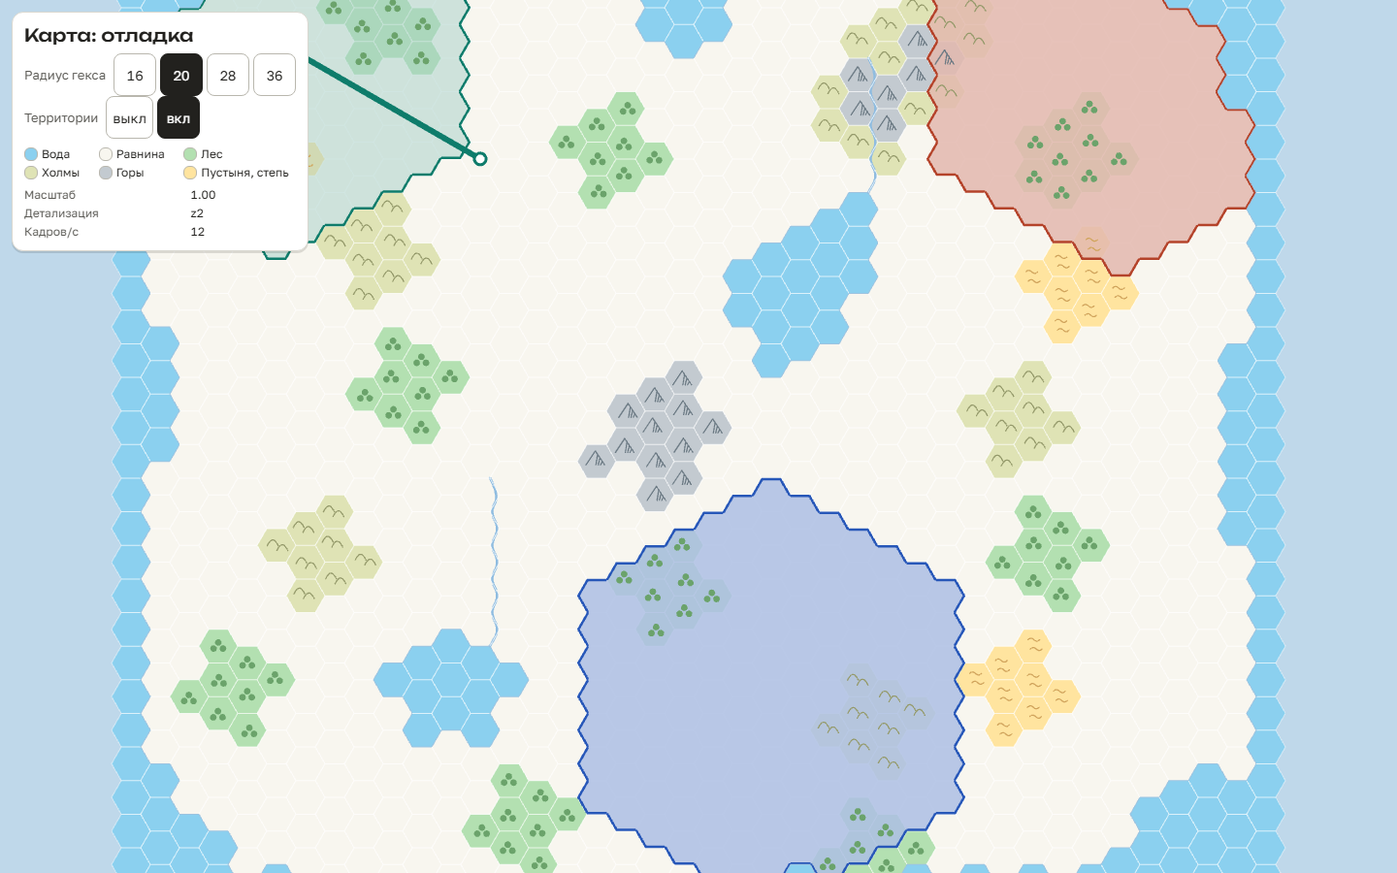
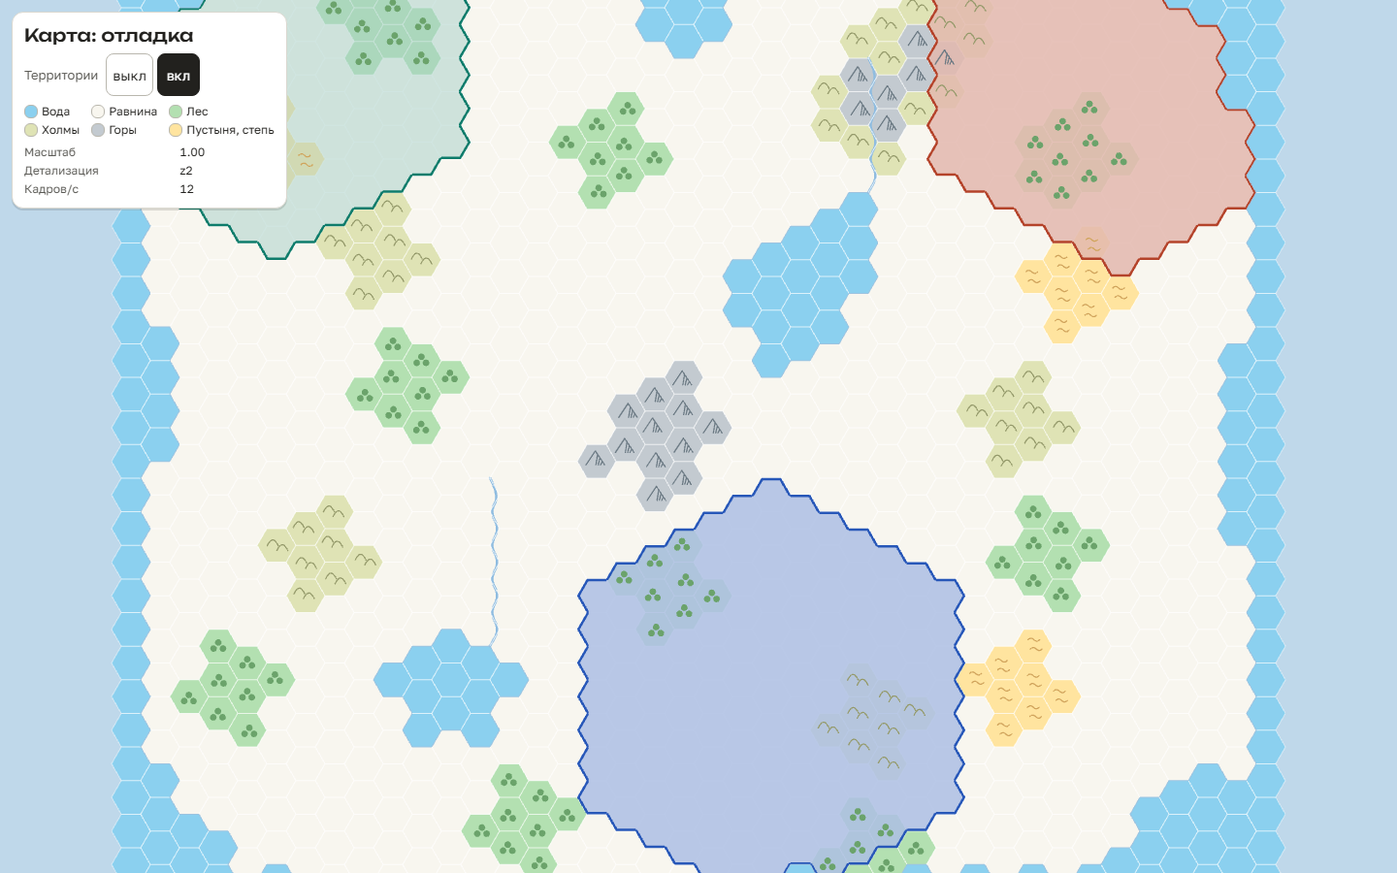
docs(docs): радиус 20 подтверждён, пожелание по дорогам записано
Переключатель радиуса и пример дороги-«метро» убраны с /dev/map,
эталоны скриншотов пересняты. Пожелание владельца «дороги пунктиром,
не поверх всего» и проверка синих цветов игроков — в
CHANGELOG-proposals.md с перечнем конфликтов. Отчёт и статус этапа.

Этап: 01/T9
Решение: DECISIONS 2026-09-24

diff --git a/apps/client/src/dev/fake-territories.ts b/apps/client/src/dev/fake-territories.ts
@@ -1,4 +1,4 @@
-// Только для /dev/map: фейковые государства и дорога-«метро», чтобы оценить палитру рельефа
+// Только для /dev/map: фейковые государства, чтобы оценить рельеф
 // под заливкой территорий. Настоящие слои 4–7 — этап 04; в игровой код модуль не идёт.
 import { Container, Graphics } from 'pixi.js';
 
@@ -7,8 +7,6 @@ import {
   hexFromId,
   hexId,
   inBounds,
-  distance,
-  line,
   neighbor,
   neighbors,
   type Hex,
@@ -16,7 +14,7 @@ import {
 } from '@hexfront/sim';
 
 import type { DetailLevel } from '../render/camera.ts';
-import { hexCenter, hexEdge, hexPolygon, type Point } from '../render/hex-geometry.ts';
+import { hexCenter, hexEdge, hexPolygon } from '../render/hex-geometry.ts';
 import { tokens } from '../theme/tokens.ts';
 
 const STATE_RADIUS = 6;
@@ -71,7 +69,7 @@ interface Owned {
   readonly p: number;
 }
 
-/** Строит слой из трёх государств и одной дороги по текущим токенам territory и road. */
+/** Строит слой из трёх государств по токенам territory. */
 export function createFakeTerritories(map: MapStatic, radius: number): FakeTerritories {
   const owner = claim(map);
   const cells: Owned[] = [];
@@ -86,17 +84,8 @@ export function createFakeTerritories(map: MapStatic, radius: number): FakeTerri
 
   const fill = new Graphics();
   const borders = new Graphics();
-  const road = new Graphics();
-  const stations = new Graphics();
   const container = new Container();
-  container.addChild(fill, borders, road, stations);
-
-  // Дорога-«метро» от столицы своего государства к ближайшему городу карты.
-  const capital = map.spawns[SPAWN_SLOTS[OWN]];
-  const city = capital
-    ? [...map.cities].sort((a, b) => distance(capital, a) - distance(capital, b))[0]
-    : undefined;
-  const roadPath = capital && city ? line(capital, city).map((h) => hexCenter(h, radius)) : [];
+  container.addChild(fill, borders);
 
   return {
     container,
@@ -125,35 +114,9 @@ export function createFakeTerritories(map: MapStatic, radius: number): FakeTerri
         }
         borders.stroke({ color: lineOf(p), width: bw, cap: 'round' });
       }
-      road.clear();
-      const [first, ...rest] = roadPath;
-      if (first) {
-        road.moveTo(first.x, first.y);
-        for (const pt of rest) road.lineTo(pt.x, pt.y);
-        const rw = tokens.road.width[level - 1] ?? tokens.road.width[1];
-        road.stroke({ color: lineOf(OWN), width: rw / scale, cap: 'round', join: 'round' });
-      }
-      drawStations(stations, [roadPath[0], roadPath.at(-1)], lineOf(OWN), scale);
     },
     destroy() {
       container.destroy({ children: true });
     },
   };
-}
-
-// Концы дороги — «станции» по токенам city (уровень 1), экранного размера.
-function drawStations(
-  g: Graphics,
-  points: readonly (Point | undefined)[],
-  color: string,
-  scale: number,
-): void {
-  const { city } = tokens;
-  g.clear();
-  for (const p of points) {
-    if (!p) continue;
-    g.circle(p.x, p.y, city.radiusByLevel[0] / scale)
-      .fill(city.fill)
-      .stroke({ color, width: city.strokeByLevel[0] / scale });
-  }
 }

diff --git a/apps/client/src/dev/DevMapPage.tsx b/apps/client/src/dev/DevMapPage.tsx
@@ -13,8 +13,6 @@ import {
 } from '../render/map-view.ts';
 import { tokens } from '../theme/tokens.ts';
 
-/** Радиусы для выбора на глаз (DECISIONS 2026-09-24). */
-const RADIUS_OPTIONS = [16, 20, 28, 36] as const;
 /** Период обновления показаний панели: чаще — лишние перерисовки React. */
 const READOUT_MS = 250;
 
@@ -29,20 +27,18 @@ const LEGEND: readonly { color: string; label: MessageKey }[] = [
 ];
 
 interface Settings {
-  readonly radius: number;
   readonly territories: boolean;
 }
 
 function readSettings(params: URLSearchParams): Settings {
   return {
-    radius: Number(params.get('radius')) || tokens.map.hexRadius,
     territories: params.get('territories') === '1',
   };
 }
 
 function toOptions(s: Settings): MapViewOptions {
   return {
-    radius: s.radius,
+    radius: tokens.map.hexRadius,
     midLayer: s.territories ? (map, radius) => createFakeTerritories(map, radius) : null,
   };
 }
@@ -94,7 +90,7 @@ function Choice<T extends string | number | boolean>(props: {
   );
 }
 
-/** /dev/map?map=small[&radius&scale&territories=1&panel=0]. */
+/** /dev/map?map=small[&scale&territories=1&panel=0]. */
 export function DevMapPage(): React.JSX.Element {
   const params = new URLSearchParams(window.location.search);
   const map = useMap(params.get('map') ?? 'small');
@@ -141,13 +137,6 @@ export function DevMapPage(): React.JSX.Element {
         <h1 className={styles.title}>{t('dev.map.title')}</h1>
         {map === 'loading' && <p>{t('dev.map.loading')}</p>}
         {map === 'error' && <p className={styles.error}>{t('dev.map.error')}</p>}
-        <Choice
-          label={t('dev.map.radius')}
-          options={RADIUS_OPTIONS}
-          value={settings.radius as (typeof RADIUS_OPTIONS)[number]}
-          format={String}
-          onPick={(radius) => update({ radius })}
-        />
         <Choice
           label={t('dev.map.territories')}
           options={[false, true]}

diff --git a/apps/client/scripts/dev-map-screens.ts b/apps/client/scripts/dev-map-screens.ts
@@ -14,7 +14,7 @@ interface Shot {
 }
 
 // Эталоны /dev/map (палитра и прозрачность — DECISIONS 2026-09-24): телефон и ПК,
-// z1/z2/z3, без территорий и с примером территорий; плюс радиусы для выбора на глаз.
+// z1/z2/z3, без территорий и с примером территорий.
 const VIEWS = [
   { tag: '390x844-fit', width: 390, height: 844, query: '' },
   { tag: '390x844-scale1', width: 390, height: 844, query: '&scale=1' },
@@ -33,12 +33,6 @@ const SHOTS: readonly Shot[] = [
     })),
   ),
   { name: 'dev-map-1440x900-panel', width: 1440, height: 900, query: '&territories=1&scale=1' },
-  ...[16, 28, 36].map((r) => ({
-    name: `dev-map-1440x900-radius${r}`,
-    width: 1440,
-    height: 900,
-    query: `&panel=0&territories=1&radius=${r}&scale=1`,
-  })),
 ];
 
 const browser = await chromium.launch();

diff --git a/apps/client/src/i18n/dict.ts b/apps/client/src/i18n/dict.ts
@@ -2,7 +2,6 @@
 
 const ru = {
   'dev.map.title': 'Карта: отладка',
-  'dev.map.radius': 'Радиус гекса',
   'dev.map.scale': 'Масштаб',
   'dev.map.detail': 'Детализация',
   'dev.map.fps': 'Кадров/с',
@@ -24,7 +23,6 @@ export type MessageKey = keyof typeof ru;
 
 const en: Record<MessageKey, string> = {
   'dev.map.title': 'Map: debug',
-  'dev.map.radius': 'Hex radius',
   'dev.map.scale': 'Scale',
   'dev.map.detail': 'Detail',
   'dev.map.fps': 'FPS',

diff --git a/docs/reports/stage-01.md b/docs/reports/stage-01.md
@@ -13,7 +13,7 @@
 | T5. Состояние и `step` | готово | `createMatch`, `hashState` (FNV-1a), `step` с 17 системами после `applyCommands`, команды → `notImplemented`. Golden-хэш старта `small` (сид 42, 6 игроков): `34a067fb`. 1000 тиков — одинаковый хэш в двух прогонах. DSL разбирает и прогоняет пример из `testing.md` |
 | T6. Токены | готово | `tools/tokens` → `apps/client/src/theme/tokens.{ts,css}`; `pnpm check` падает на устаревших файлах; контраст всех 24 цветов игроков к белому ≥ 4,5 |
 | T7. Рендер рельефа и камера | готово | `/dev/map?map=small`: вода и берег, рельеф с паттернами от координат (лес, пустыня — точки; холмы — 2 горизонтали; горы — 3–4 и штриховка), сглаженные реки по рёбрам, сетка с z2. Камера: перетаскивание с инерцией, колесо, щипок, границы карты. Шрифты локально |
-| T8. Плавный зум и переключатель радиуса | готово | Масштаб от «вся карта» до 2,5, пороги детализации 0,6/1,5 (юнит-тест), переключатель 16/20/28/36 без перезагрузки. Параметры URL `radius` и `scale` — для скриншотов |
+| T8. Плавный зум и переключатель радиуса | готово | Масштаб от «вся карта» до 2,5, пороги детализации 0,6/1,5 (юнит-тест), переключатель 16/20/28/36 без перезагрузки — по нему выбран радиус 20, после чего переключатель убран. Параметр URL `scale` — для скриншотов |
 | T9. Палитра местности и узоры | готово | Узоры: кроны, дуги, пик со штриховкой, рябь — над территорией. Палитра B, ΔE2000 ≥ 8 между типами суши (тест), суша светлее заливок территорий; прозрачность своё/чужие 50/85 %. Легенда и пример территорий на `/dev/map` |
 
 ## Решения владельца, принятые в этапе
@@ -22,12 +22,14 @@
 
 ## Отклонено или перенесено
 
+- Пример дороги-«метро» и «станции» на `/dev/map` убраны: владелец хочет дороги пунктиром и не поверх всего, города на карту пока не добавляем. Пожелание с конфликтами против стайл-гайда — в `CHANGELOG-proposals.md`, решается до этапа 04.
+
 - Эталонные скриншот-тесты Playwright в CI — с этапа 04 (`testing.md`). Сейчас скриншоты снимаются скриптом `apps/client/scripts/dev-map-screens.ts`.
 - Подписи городов и фишки армий на dev-странице не рисуются — вне объёма этапа (слои 4+ — этап 04).
 
 ## Скриншоты (просмотрены)
 
-Эталоны после DECISIONS 2026-09-24 (палитра B, прозрачность 50/85 %), `docs/reports/stage-01/`:
+Эталоны после DECISIONS 2026-09-24 (палитра B, прозрачность 50/85 %, радиус 20), `docs/reports/stage-01/`:
 
 | Файл | Масштаб | Детализация |
 | --- | --- | --- |
@@ -37,7 +39,6 @@
 | `dev-map-1440x900-fit[-territories].png` | 0,85 | z2 |
 | `dev-map-1440x900-scale2[-territories].png` | 2,00 | z3 |
 | `dev-map-1440x900-panel.png` | 1,00 | z2, с панелью и легендой |
-| `dev-map-1440x900-radius{16,28,36}.png` | 1,06 / 1,00 / 1,00 | z2 |
 
 Выбор палитры (T9) — `docs/reports/stage-01-terrain.md` и `docs/reports/stage-01/terrain/`. Значения fps на скриншотах — из headless Chromium без GPU, не показательны.
 
@@ -66,7 +67,7 @@ Test Files  14 passed (14)
 
 ## Открытые вопросы
 
-Нет (`QUESTIONS.md` пуст).
+`QUESTIONS.md` пуст. На решении владельца в `CHANGELOG-proposals.md`: стиль дорог (4 конфликта со стайл-гайдом) и проверка синих цветов игроков против воды.
 
 ## Известные риски
 

diff --git a/docs/CHANGELOG-proposals.md b/docs/CHANGELOG-proposals.md
@@ -2,3 +2,21 @@
 
 Формат: дата · файл(ы) · что изменить · почему · влияние на код и тесты. Владелец отмечает: принято / отклонено.
 
+
+## 2026-09-24 · Дороги пунктиром, не «метро» · пожелание владельца, ждёт решения по конфликтам
+
+- **Что:** дороги рисуются пунктирной линией, а не толстой линией «метро», и не поверх всего (ниже фишек, городов, фронта и узоров?). Города на карту пока не добавляем.
+- **Файлы:** `art/style-guide.md` (идея, принцип 3, слой 7, раздел «Линии снабжения», «Изолированная сеть», «Стройка»), `art/tokens.json` (`road.*`), `art/ui.md` (строки 33–34: «линия-метро» / «пунктирная линия» в карточке города), `art/units.md` (стрелка — «как поток снабжения»), `gdd/04-roads-supply.md` (строки 3, 20, 57, 63), `01-vision.md` (столп 1), `DECISIONS.md` 2026-09-23 «Визуальный стиль „метро-карта“», `stages/stage-04` T4.
+- **Конфликты, которые надо решить до правки:**
+  1. Пунктир уже занят: изолированная сеть (7/7), стройка дороги («муравьи»), путь «Перестроить снабжение», изолированный город, контур котла. Если все дороги пунктирные, чем показать разрез/изоляцию — цветом, прозрачностью, значком разрыва?
+  2. Поток снабжения (белый бегущий пунктир поверх линии) на пунктирной дороге не читается. Оставить поток, заменить (бегущие точки/стрелки) или убрать?
+  3. Столп «Логистика решает войну» и принцип «Снабжение — главный герой, самая толстая линия после армий»: дорога становится второстепенным элементом. Меняем приоритет или только форму линии?
+  4. Слой 7 — между территорией и городами. Куда именно опустить дороги: под узоры рельефа (4а), под границы (5)?
+- **Влияние на код:** этап 01 — нет (дорог в игровом коде нет; пример дороги удалён с `/dev/map`). Этап 04 T4 — реализация по новой спецификации.
+
+## 2026-09-24 · Синие цвета игроков похожи на воду · предложение агента
+
+- **Что:** проверить ΔE2000 заливок игроков (`mix(line, #FFF, fillMix)` при `alphaOther`/`alphaOwn` поверх равнины) против `map.water`; цвета ниже порога — сдвинуть по оттенку или исключить из соседства с водой.
+- **Почему:** на скриншотах `cobalt` (южное государство) читается как озеро; то же ожидается у `ocean`, `cyan`, `navy`, `steel`, `indigo`.
+- **Файлы:** `art/tokens.json` (`players.palette`), тест в `apps/client/test/terrain-palettes.test.ts`.
+- **Влияние:** только клиент; эталоны скриншотов.

diff --git a/docs/STATUS.md b/docs/STATUS.md
@@ -13,14 +13,14 @@
 
 - Репозиторий на GitHub (`detektor133/HexFront`), доступ и автор настроены локально для этого репо; PR #1 `stage-01` → `main`, CI зелёный.
 - T9: узоры рельефа (кроны, дуги, пик, рябь) над территорией; палитра местности B и прозрачность своё/чужие 50/85 % — в `tokens.json` и `style-guide.md` (DECISIONS 2026-09-24). Эталоны скриншотов обновлены.
+- Радиус гекса 20 подтверждён; пример дороги и переключатель радиуса убраны; пожелание по дорогам записано в `CHANGELOG-proposals.md`.
 - `pnpm check` зелёный: 104 теста.
 
 ## Дальше
 
-- Владелец: приёмка этапа 01 (PR #1), выбор радиуса гекса на `/dev/map`.
-- После мержа — тег `stage-01-done`, удалить локальные ветки `backup/*`.
-- Предложение: проверить ΔE заливок синих цветов игроков против воды (`cobalt`, `ocean`, `cyan`, `navy` похожи на воду).
-- Затем этап 02 (T1 уже закрыта в 01/T4).
+- Владелец: мерж PR #1 (приёмка этапа 01), затем тег `stage-01-done`, удалить локальные `backup/*`.
+- До этапа 04 решить `CHANGELOG-proposals.md`: стиль дорог (пунктир, не поверх всего — 4 конфликта со стайл-гайдом) и синие цвета игроков против воды.
+- Этап 02 (T1 уже закрыта в 01/T4).
 
 ## Блокеры и открытые вопросы
 

diff --git a/docs/DECISIONS.md b/docs/DECISIONS.md
@@ -2,6 +2,7 @@
 
 Одна строка на решение, новые сверху. Формат: дата · решение · затронутые файлы · CR (если был).
 
+- 2026-09-24 · Радиус гекса `map.hexRadius` = 20 px подтверждён; переключатель радиуса и пример дороги убраны с `/dev/map`; дороги — пожелание «пунктир, не поверх всего» в `CHANGELOG-proposals.md`, города на карту пока не добавляем · `stages/stage-01`
 - 2026-09-24 · Палитра местности B (вода `#8BD0EF`, суша светлее заливок территорий, ΔE2000 ≥ 8), узоры рельефа (кроны, дуги, пик, рябь) над территорией, `map.patternWidth` 1,25; прозрачность территорий: своё государство 50 %, чужие 85 % (союзники `[ПОЗЖЕ]` — как своё) · `art/tokens.json`, `art/style-guide.md`, `stages/stage-01`, `stages/stage-04`
 - 2026-09-24 · Радиус гекса `map.hexRadius` = 20 px при масштабе 1,0; зум плавный до 2,5; z1/z2/z3 — пороги детализации 0,6 и 1,5; фишки и подписи — постоянного экранного размера; на z1/z2 — агрегированная фишка «×N», стопка — на z3 и по тапу · `art/tokens.json`, `art/style-guide.md`, `art/units.md`, `stages/stage-01`, `stages/stage-04`
 - 2026-09-24 · Направления flat-top называются `SE, NE, N, NW, SW, S` (индексы 0–5, векторы не менялись) · `gdd/01-map.md`, `gdd/08-match.md`
